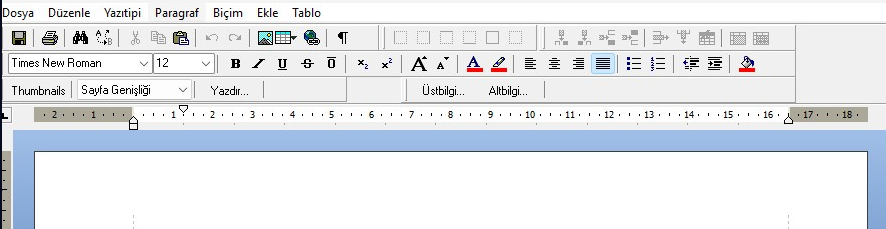
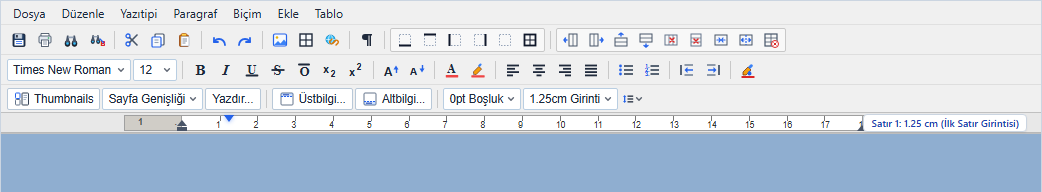
docs(showcase): update screenshots and showcase section with modern live editor appearance, ruler and EBYS templates

diff --git a/scripts/render-editor-preview.html b/scripts/render-editor-preview.html
@@ -1,0 +1,128 @@
+<!DOCTYPE html>
+<html lang="tr">
+<head>
+  <meta charset="UTF-8">
+  <title>Editor Preview Showcase</title>
+  <link rel="stylesheet" href="../dist/oldstyle-web-texteditor.css">
+  <style>
+    body {
+      margin: 0;
+      padding: 0;
+      background: #7c98b3;
+      font-family: -apple-system, BlinkMacSystemFont, "Segoe UI", Roboto, Arial, sans-serif;
+      overflow: hidden;
+    }
+    #capture-wrapper {
+      width: 1040px;
+      margin: 0 auto;
+      background: #ffffff;
+      box-shadow: 0 4px 25px rgba(0, 0, 0, 0.15);
+      border: 1px solid #cbd5e1;
+      height: 1350px;
+      overflow: hidden;
+    }
+    #editor {
+      height: 100%;
+    }
+    .rye-container {
+      height: 100% !important;
+    }
+    .rye-scroll-area {
+      height: calc(100% - 150px) !important;
+      background: #7c98b3 !important;
+      padding: 24px 0 !important;
+    }
+    /* Ensure page is centered and crisp */
+    .rye-page {
+      box-shadow: 0 6px 20px rgba(0,0,0,0.2) !important;
+      margin: 0 auto !important;
+    }
+  </style>
+</head>
+<body>
+
+<div id="capture-wrapper">
+  <div id="editor"></div>
+</div>
+
+<script src="../dist/oldstyle-web-texteditor.umd.js"></script>
+<script>
+  const sampleDocument = `
+    <p style="text-align: center; font-weight: bold; margin-bottom: 20pt; font-size: 13pt;">
+      T.C.<br>
+      İÇİŞLERİ BAKANLIĞI<br>
+      Bilgi Teknolojileri Genel Müdürlüğü
+    </p>
+
+    <div style="display: flex; justify-content: space-between; margin-bottom: 12pt;">
+      <span><strong>Sayı :</strong> E-70438294-700.01-00124</span>
+      <span>16.10.2026</span>
+    </div>
+    <p style="margin-bottom: 18pt;"><strong>Konu :</strong> Resmi Yazışma Sistemi & Web Editör Entegrasyonu</p>
+
+    <p style="text-align: center; font-weight: bold; margin: 22pt 0 16pt 0;">DAĞITIM YERLERİNE</p>
+
+    <p style="text-indent: 1.25cm; text-align: justify; line-height: 1.15; margin-bottom: 12pt;">
+      T.C. Cumhurbaşkanlığı Resmî Yazışmalarda Uygulanacak Usul ve Esaslar Hakkında Yönetmelik (Madde 8) hükümlerine uygun olarak hazırlanan bu sistem; 1.5 cm kenar boşlukları, 18 cm gövde genişliği ve 1.25 cm ilk satır girintisi ile doğrudan web tarayıcıları üzerinden masaüstü kalitesinde belge üretilmesini sağlamaktadır.
+    </p>
+
+    <table style="width: 100%; border-collapse: collapse; margin: 14pt 0; font-size: 11pt;">
+      <thead>
+        <tr style="background-color: #f1f5f9;">
+          <th style="border: 1px solid #94a3b8; padding: 6px 10px; width: 60px; text-align: center;">Sıra</th>
+          <th style="border: 1px solid #94a3b8; padding: 6px 10px; text-align: left;">Sistem Bileşeni</th>
+          <th style="border: 1px solid #94a3b8; padding: 6px 10px; text-align: left;">Mevzuat & Teknik Standart</th>
+          <th style="border: 1px solid #94a3b8; padding: 6px 10px; width: 100px; text-align: center;">Durum</th>
+        </tr>
+      </thead>
+      <tbody>
+        <tr>
+          <td style="border: 1px solid #94a3b8; padding: 6px 10px; text-align: center;">1</td>
+          <td style="border: 1px solid #94a3b8; padding: 6px 10px;">Fiziksel Çok Sayfalı A4 Motoru</td>
+          <td style="border: 1px solid #94a3b8; padding: 6px 10px;">210x297 mm Sayfalama & Otomatik Bölme</td>
+          <td style="border: 1px solid #94a3b8; padding: 6px 10px; text-align: center; color: #16a34a; font-weight: bold;">Tam Uyumlu</td>
+        </tr>
+        <tr>
+          <td style="border: 1px solid #94a3b8; padding: 6px 10px; text-align: center;">2</td>
+          <td style="border: 1px solid #94a3b8; padding: 6px 10px;">CKEditor 4 Drop-in Soketi</td>
+          <td style="border: 1px solid #94a3b8; padding: 6px 10px;">Kendo UI & OLGU EBYS Uyumluluğu</td>
+          <td style="border: 1px solid #94a3b8; padding: 6px 10px; text-align: center; color: #16a34a; font-weight: bold;">Tam Uyumlu</td>
+        </tr>
+        <tr>
+          <td style="border: 1px solid #94a3b8; padding: 6px 10px; text-align: center;">3</td>
+          <td style="border: 1px solid #94a3b8; padding: 6px 10px;">Word (.docx) İçe / Dışa Aktarım</td>
+          <td style="border: 1px solid #94a3b8; padding: 6px 10px;">ECMA-376 OpenXML Biçimlendirme</td>
+          <td style="border: 1px solid #94a3b8; padding: 6px 10px; text-align: center; color: #16a34a; font-weight: bold;">Tam Uyumlu</td>
+        </tr>
+      </tbody>
+    </table>
+
+    <p style="text-indent: 1.25cm; text-align: justify; line-height: 1.15; margin-bottom: 24pt;">
+      Bilgilerini ve gereğini arz/rica ederim.
+    </p>
+
+    <div style="display: flex; justify-content: flex-end; margin-top: 26pt; text-align: center;">
+      <div style="min-width: 200px;">
+        <p style="margin: 0; font-weight: bold; font-size: 12pt;">Ahmet YILMAZ</p>
+        <p style="margin: 0; font-size: 11pt;">Genel Müdür</p>
+        <p style="margin: 4pt 0 0 0; font-size: 9pt; color: #64748b;">(e-İmzalıdır)</p>
+      </div>
+    </div>
+  `;
+
+  ResmiYaziEditor.create('#editor', {
+    initialData: sampleDocument,
+    pageMargin: '1.5cm 1.5cm 0.5cm 1.5cm',
+    lineHeight: '1.15',
+    paragraphSpacing: '0pt',
+    firstLineIndent: '1.25cm'
+  }).then(editor => {
+    const badge = editor.container.querySelector('.rye-ruler-line-badge');
+    if (badge) {
+      badge.textContent = 'Satır 1: 1.25 cm';
+      badge.style.display = 'block';
+    }
+  });
+</script>
+</body>
+</html>

diff --git a/scripts/render-ebys-template.html b/scripts/render-ebys-template.html
@@ -1,0 +1,128 @@
+<!DOCTYPE html>
+<html lang="tr">
+<head>
+  <meta charset="UTF-8">
+  <title>EBYS Template Showcase</title>
+  <link rel="stylesheet" href="../dist/oldstyle-web-texteditor.css">
+  <style>
+    body {
+      margin: 0;
+      padding: 0;
+      background: #7c98b3;
+      font-family: -apple-system, BlinkMacSystemFont, "Segoe UI", Roboto, Arial, sans-serif;
+      overflow: hidden;
+    }
+    #capture-wrapper {
+      width: 1040px;
+      margin: 0 auto;
+      background: #ffffff;
+      box-shadow: 0 4px 25px rgba(0, 0, 0, 0.15);
+      border: 1px solid #cbd5e1;
+      height: 1480px;
+      overflow: hidden;
+    }
+    #editor {
+      height: 100%;
+    }
+    .rye-container {
+      height: 100% !important;
+    }
+    .rye-scroll-area {
+      height: calc(100% - 150px) !important;
+      background: #7c98b3 !important;
+      padding: 24px 0 !important;
+    }
+    .rye-page {
+      box-shadow: 0 6px 20px rgba(0,0,0,0.2) !important;
+      margin: 0 auto !important;
+    }
+    .template-token {
+      font-family: "Courier New", Courier, monospace;
+      font-weight: 600;
+      color: #0f172a;
+    }
+    .template-token-red {
+      font-family: "Courier New", Courier, monospace;
+      font-weight: bold;
+      color: #dc2626;
+    }
+  </style>
+</head>
+<body>
+
+<div id="capture-wrapper">
+  <div id="editor"></div>
+</div>
+
+<script src="../dist/oldstyle-web-texteditor.umd.js"></script>
+<script>
+  const templateHtml = `
+    <p style="text-align: center; font-weight: bold; margin-bottom: 14pt;">
+      T.C.<br>
+      <span class="template-token">{{Belge.EbysKurumAdi}}</span><br>
+      <span class="template-token">{{Belge.YaziBasligi}}</span>
+    </p>
+
+    <div style="text-align: right; margin-bottom: 8pt;">
+      <span class="template-token-red">{{Belge.OncelikDerecesi}}</span>
+    </div>
+
+    <div style="display: flex; justify-content: space-between; margin-bottom: 8pt;">
+      <span><strong>Sayı :</strong> <span class="template-token">{{Belge.Sayi}}</span></span>
+      <span class="template-token">{{Belge.Tarih}}</span>
+    </div>
+    <p style="margin-bottom: 12pt;"><strong>Konu :</strong> <span class="template-token">{{Belge.KonuMetni}}</span></p>
+
+    <p style="text-align: center; margin: 14pt 0 12pt 0;">
+      <span class="template-token">{{Belge.KonuGittigiYerArasiBoslukSatirlari}}</span><br>
+      <strong class="template-token">{{Belge.Muhatap}}</strong>
+    </p>
+
+    <p style="margin-bottom: 10pt;"><strong>İlgi :</strong> <span class="template-token">{{Belge.IlgiMetni}}</span></p>
+
+    <div style="border-top: 2px dashed #dc2626; margin: 14pt 0; position: relative;">
+      <span style="position: absolute; right: 0; top: -10px; background: #dc2626; color: #fff; font-size: 10px; padding: 2px 6px; border-radius: 3px; font-weight: bold;">↵ Sayfa Sonu (Page Break)</span>
+    </div>
+
+    <p style="text-indent: 1.25cm; text-align: justify; line-height: 1.15; margin-bottom: 12pt;">
+      <span class="template-token">{{Belge.Icerik}}</span>
+    </p>
+
+    <p style="text-align: center; margin: 10pt 0;">
+      <span class="template-token">{{Belge.IcerikImzaArasiBoslukSatirlari}}</span>
+    </p>
+
+    <table style="width: 100%; border: none; margin-top: 18pt; text-align: center;">
+      <tr>
+        <td style="border: none; padding: 4px; width: 33%;"><strong>İmza</strong></td>
+        <td style="border: none; padding: 4px; width: 33%;"><strong>İmza</strong></td>
+        <td style="border: none; padding: 4px; width: 33%;"><strong>İmza</strong></td>
+      </tr>
+      <tr>
+        <td style="border: none; padding: 4px;"><span class="template-token">{{Belge.ImzaMetinleri[2]}}</span></td>
+        <td style="border: none; padding: 4px;"><span class="template-token">{{Belge.ImzaMetinleri[1]}}</span></td>
+        <td style="border: none; padding: 4px;"><span class="template-token">{{Belge.ImzaMetinleri[0]}}</span></td>
+      </tr>
+    </table>
+
+    <div style="margin-top: 18pt; font-size: 10pt;">
+      <strong>Ek :</strong> <span class="template-token">{{Belge.EkIcerik}}</span>
+    </div>
+  `;
+
+  ResmiYaziEditor.create('#editor', {
+    initialData: templateHtml,
+    pageMargin: '1.5cm 1.5cm 0.5cm 1.5cm',
+    lineHeight: '1.15',
+    paragraphSpacing: '0pt',
+    firstLineIndent: '1.25cm'
+  }).then(editor => {
+    const badge = editor.container.querySelector('.rye-ruler-line-badge');
+    if (badge) {
+      badge.textContent = 'Şablon Modu: {{Değişkenler}} Aktif';
+      badge.style.display = 'block';
+    }
+  });
+</script>
+</body>
+</html>

diff --git a/scripts/render-toolbar-ruler.html b/scripts/render-toolbar-ruler.html
@@ -1,0 +1,59 @@
+<!DOCTYPE html>
+<html lang="tr">
+<head>
+  <meta charset="UTF-8">
+  <title>Toolbar and Ruler Showcase</title>
+  <link rel="stylesheet" href="../dist/oldstyle-web-texteditor.css">
+  <style>
+    body {
+      margin: 0;
+      padding: 0;
+      background: #ffffff;
+      font-family: -apple-system, BlinkMacSystemFont, "Segoe UI", Roboto, Arial, sans-serif;
+      overflow: hidden;
+    }
+    #capture-wrapper {
+      width: 1040px;
+      background: #ffffff;
+      border: 1px solid #cbd5e1;
+      overflow: hidden;
+    }
+    /* Hide the scrollArea and editable for toolbar capture only */
+    #editor .rye-main-area {
+      display: none !important;
+    }
+    #editor .rye-status-bar {
+      display: none !important;
+    }
+    #editor .rye-container {
+      border: none !important;
+      border-radius: 0 !important;
+      height: auto !important;
+      box-shadow: none !important;
+    }
+  </style>
+</head>
+<body>
+
+<div id="capture-wrapper">
+  <div id="editor"></div>
+</div>
+
+<script src="../dist/oldstyle-web-texteditor.umd.js"></script>
+<script>
+  ResmiYaziEditor.create('#editor', {
+    pageMargin: '1.5cm 1.5cm 0.5cm 1.5cm',
+    lineHeight: '1.15',
+    paragraphSpacing: '0pt',
+    firstLineIndent: '1.25cm'
+  }).then(editor => {
+    // Show ruler line badge
+    const badge = editor.container.querySelector('.rye-ruler-line-badge');
+    if (badge) {
+      badge.textContent = 'Satır 1: 1.25 cm (İlk Satır Girintisi)';
+      badge.style.display = 'block';
+    }
+  });
+</script>
+</body>
+</html>

diff --git a/README.md b/README.md
@@ -15,17 +15,30 @@
 
 <div align="center">
 
-### 🎗 Word Şeridi (Ribbon), Menü Çubuğu ve İnteraktif Cetvel
+### 🎗 1. Modern Word Şeridi (Ribbon), Menü Çubuğu ve İnteraktif Cetvel
+*Tam teşekküllü üst menü çubuğu, EBYS/UYAP disket ve yazdırma araçları, serbest tablo ızgarası, biçimlendirme araçları, görünüm/küçük resimler kontrolü ve 1.25 cm ilk satır girintisini dinamik gösteren akıllı yatay cetvel.*
+
 ![Word Şeridi ve Cetvel](docs/assets/toolbar-ruler.png)
 
 <br/>
 
-### 📄 Gerçek Fiziksel Çok Sayfalı A4 Kağıt Motoru & Bağımsız Satır Hizalama
+### 📄 2. Gerçek Fiziksel Çok Sayfalı A4 Kağıt Motoru & Resmi Yazı Düzeni
+*210 × 297 mm gerçek A4 boyutlandırması, T.C. Cumhurbaşkanlığı 2025 Yönetmeliği (8. Madde) ile tam uyumlu 1.5 cm kenar boşlukları, 18 cm yazı alanı, iki yana yaslı 1.25 cm paragraflar, kurumsal tablolar ve e-imza blokları.*
+
 ![A4 Kağıt ve Sayfalama](docs/assets/editor-preview.png)
 
 <br/>
 
-### 🏛 T.C. Cumhurbaşkanlığı 2025 Resmî Yazışma Yönetmeliği (8. Madde) Standartları
+### 📋 3. EBYS Kurumsal Şablonlama & Değişken (Token / Placeholder) Desteği
+*Kamu ve belediye EBYS sistemlerindeki dinamik değişkenler (`{{Belge.Sayi}}`, `{{Belge.Muhatap}}`, `{{Belge.Icerik}}`), kırmızı öncelik derecesi ve kırmızı kesikli sayfa sonu (`Page Break`) çizgisi birebir desteklenir; backend şablon motorları ile %100 uyumludur.*
+
+![EBYS Şablonlama Desteği](docs/assets/ebys-template-showcase.png)
+
+<br/>
+
+### 🏛 4. T.C. Cumhurbaşkanlığı 2025 Resmî Yazışma Yönetmeliği (8. Madde) Standartları
+*Yönetmelikte belirtilen 1.5 cm üst/sol/sağ, 0.5 cm alt boşluk ve Times New Roman 1.15 satır aralığı standartlarının teknik doğrulaması.*
+
 ![Resmi Yazışma Standardı](docs/assets/resmi-yazisma-standardi.jpg)
 
 </div>
@@ -225,7 +238,7 @@ oldstyle-web-texteditor/
 │   ├── plugins/                            # Word (.docx) Import/Export, Tablo, Resim
 │   ├── ui/                                 # Araç Çubuğu, Cetvel (Ruler), Bul/Değiştir
 │   └── utils/                              # PrintManager, DOM yardımcıları
-├── scripts/                                # 15 adet otomatik doğrulama test paketi
+├── scripts/                                # 16 adet otomatik doğrulama test paketi
 ├── package.json                            # Paket yapılandırması
 ├── tsconfig.json                           # TypeScript konfigürasyonu
 └── vite.config.ts                          # Vite derleme ayarları
@@ -235,12 +248,13 @@ oldstyle-web-texteditor/
 
 ## 🧪 Testler ve Kalite Güvencesi
 
-Proje bünyesinde 15 adet kapsamlı uçtan uca doğrulama testi yer alır:
+Proje bünyesinde 16 adet kapsamlı uçtan uca doğrulama testi yer alır:
 
 ```bash
 npm test
 ```
 
+- ✅ 11 Adet Klavye Kısayolu ve Tarayıcı Çakışma Önleme Doğrulaması (11/11 Test)
 - ✅ CKEditor 4 & Olgu EBYS Adaptör Doğrulaması (9/9 Test)
 - ✅ İzole A4 Baskı & Yazdırma Testleri (6/6 Test)
 - ✅ 2025 Cumhurbaşkanlığı Resmî Yazışma Kılavuzu ve Yönetmeliği Standartları
